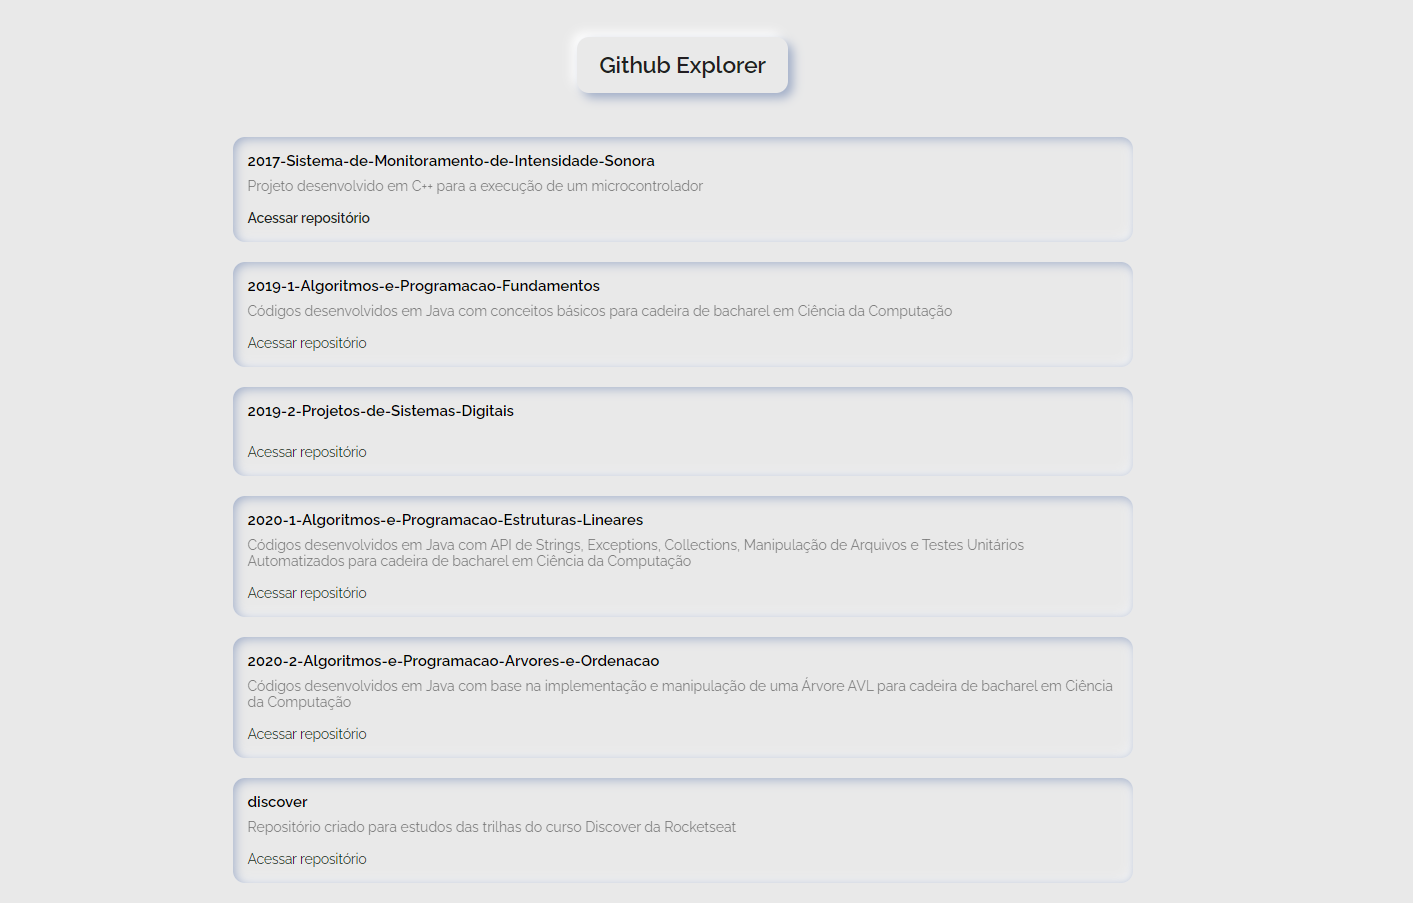
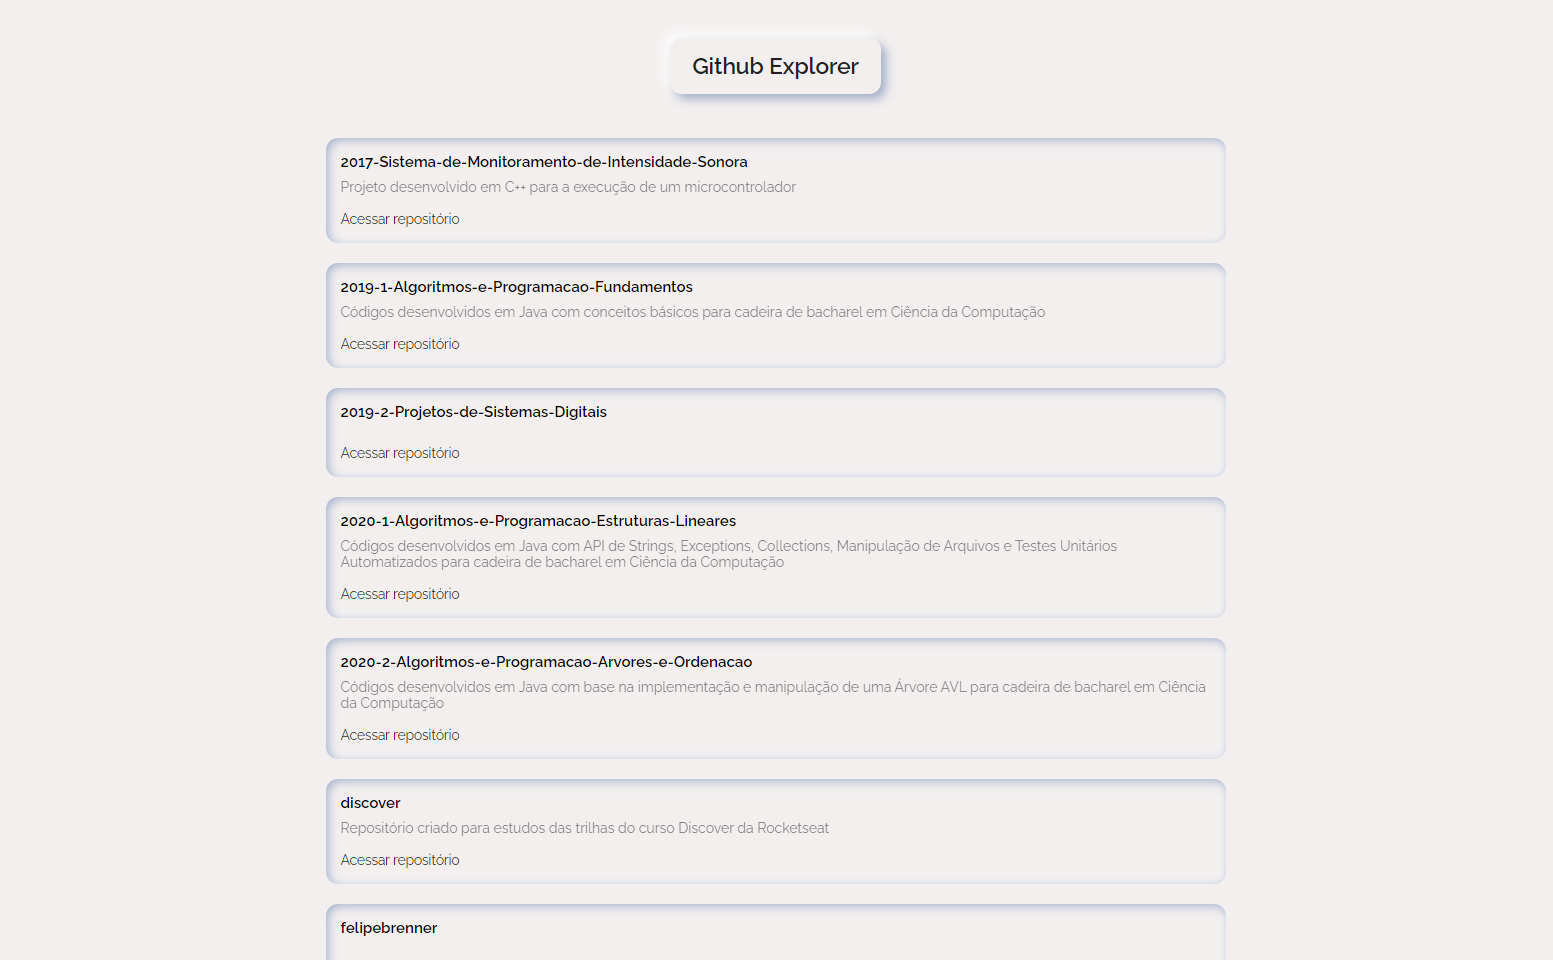
Update style

Changed region(s): [[0.1557, 0.2791, 0.8096, 0.9922], [0.1557, 0.062, 0.7785, 0.2481]]

diff --git a/src/styles/global.scss b/src/styles/global.scss
@@ -7,7 +7,7 @@
 html {
   font-size: 93.75%;
 
-  --standard: #e9e9e9;
+  --standard: #f3efef;
   --dark: #221e22;
   --dark-shadow: #a0adc7;
   --clear-shadow: #fff;
